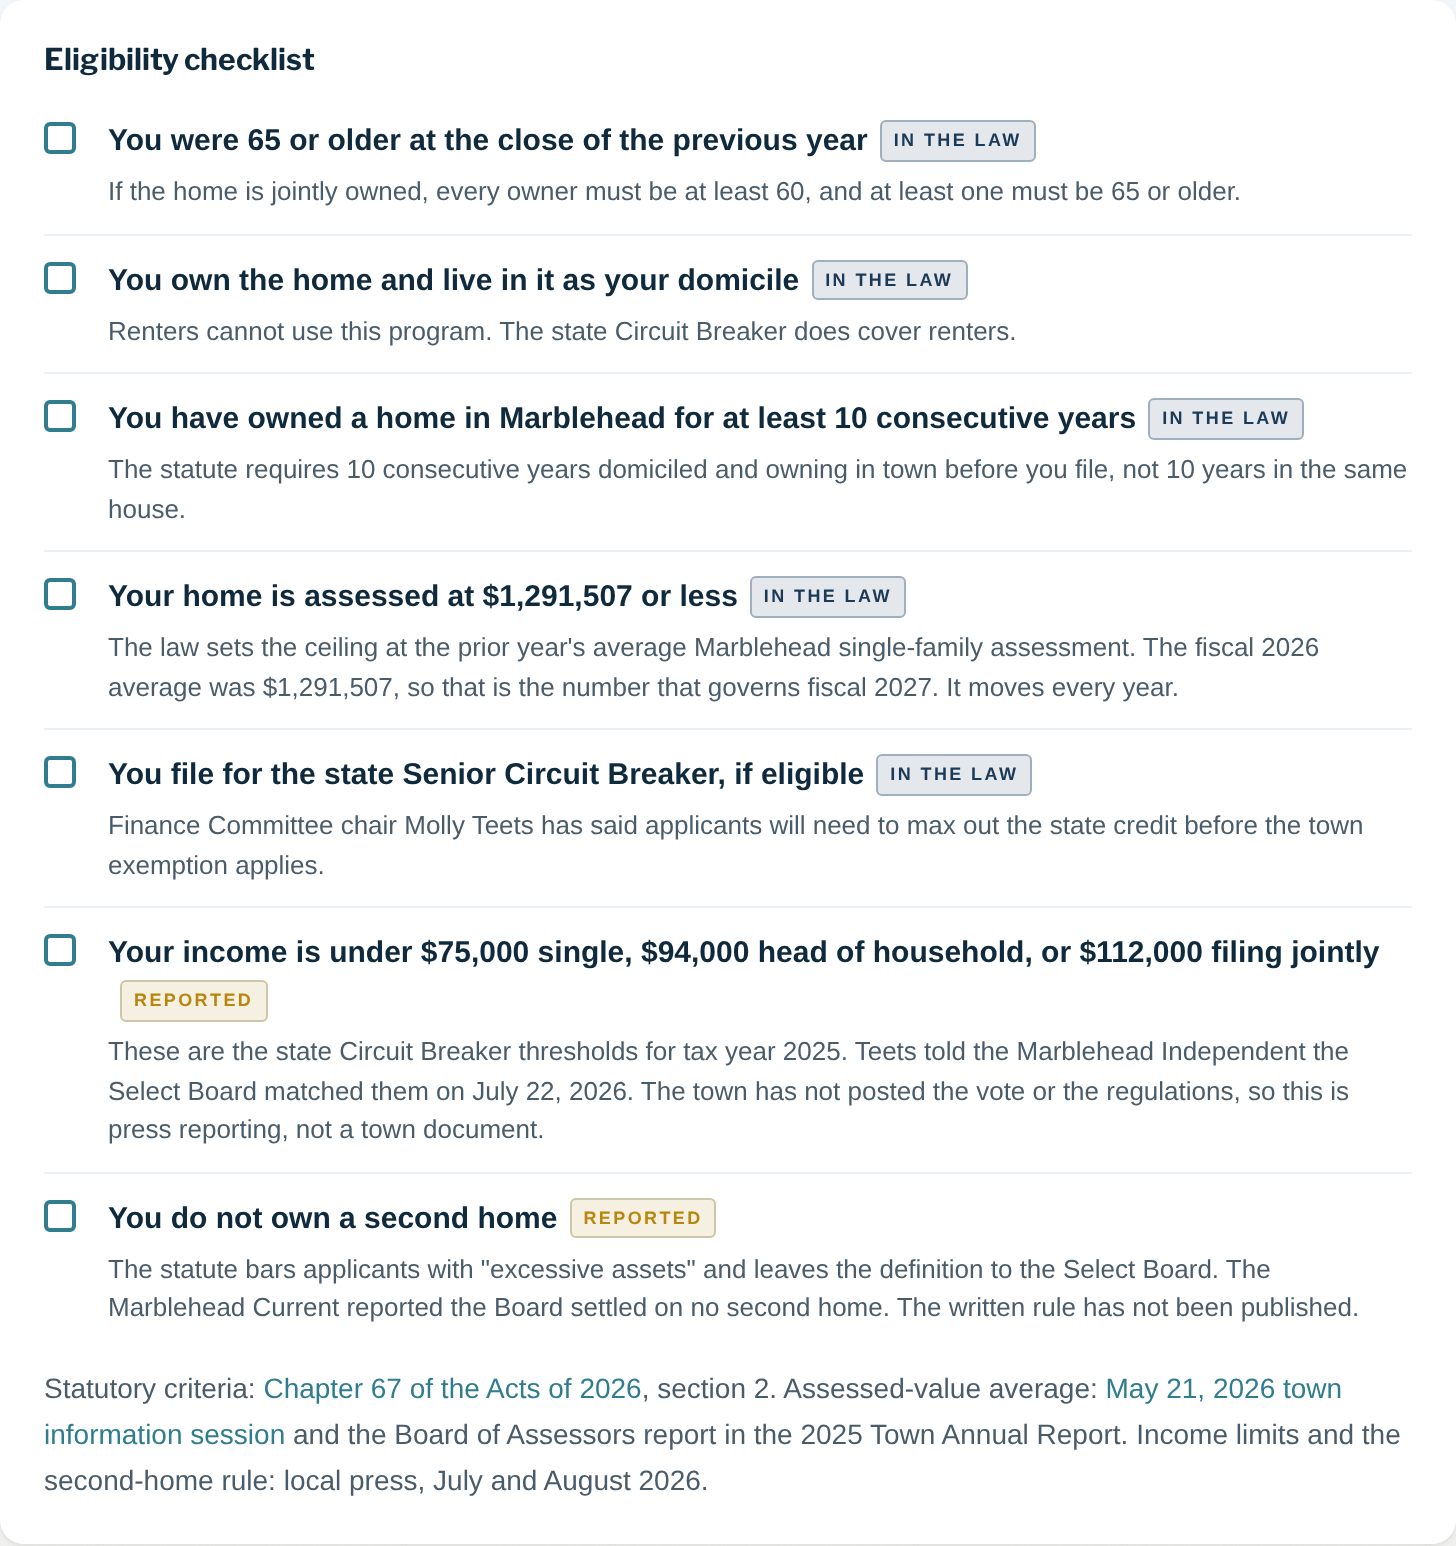
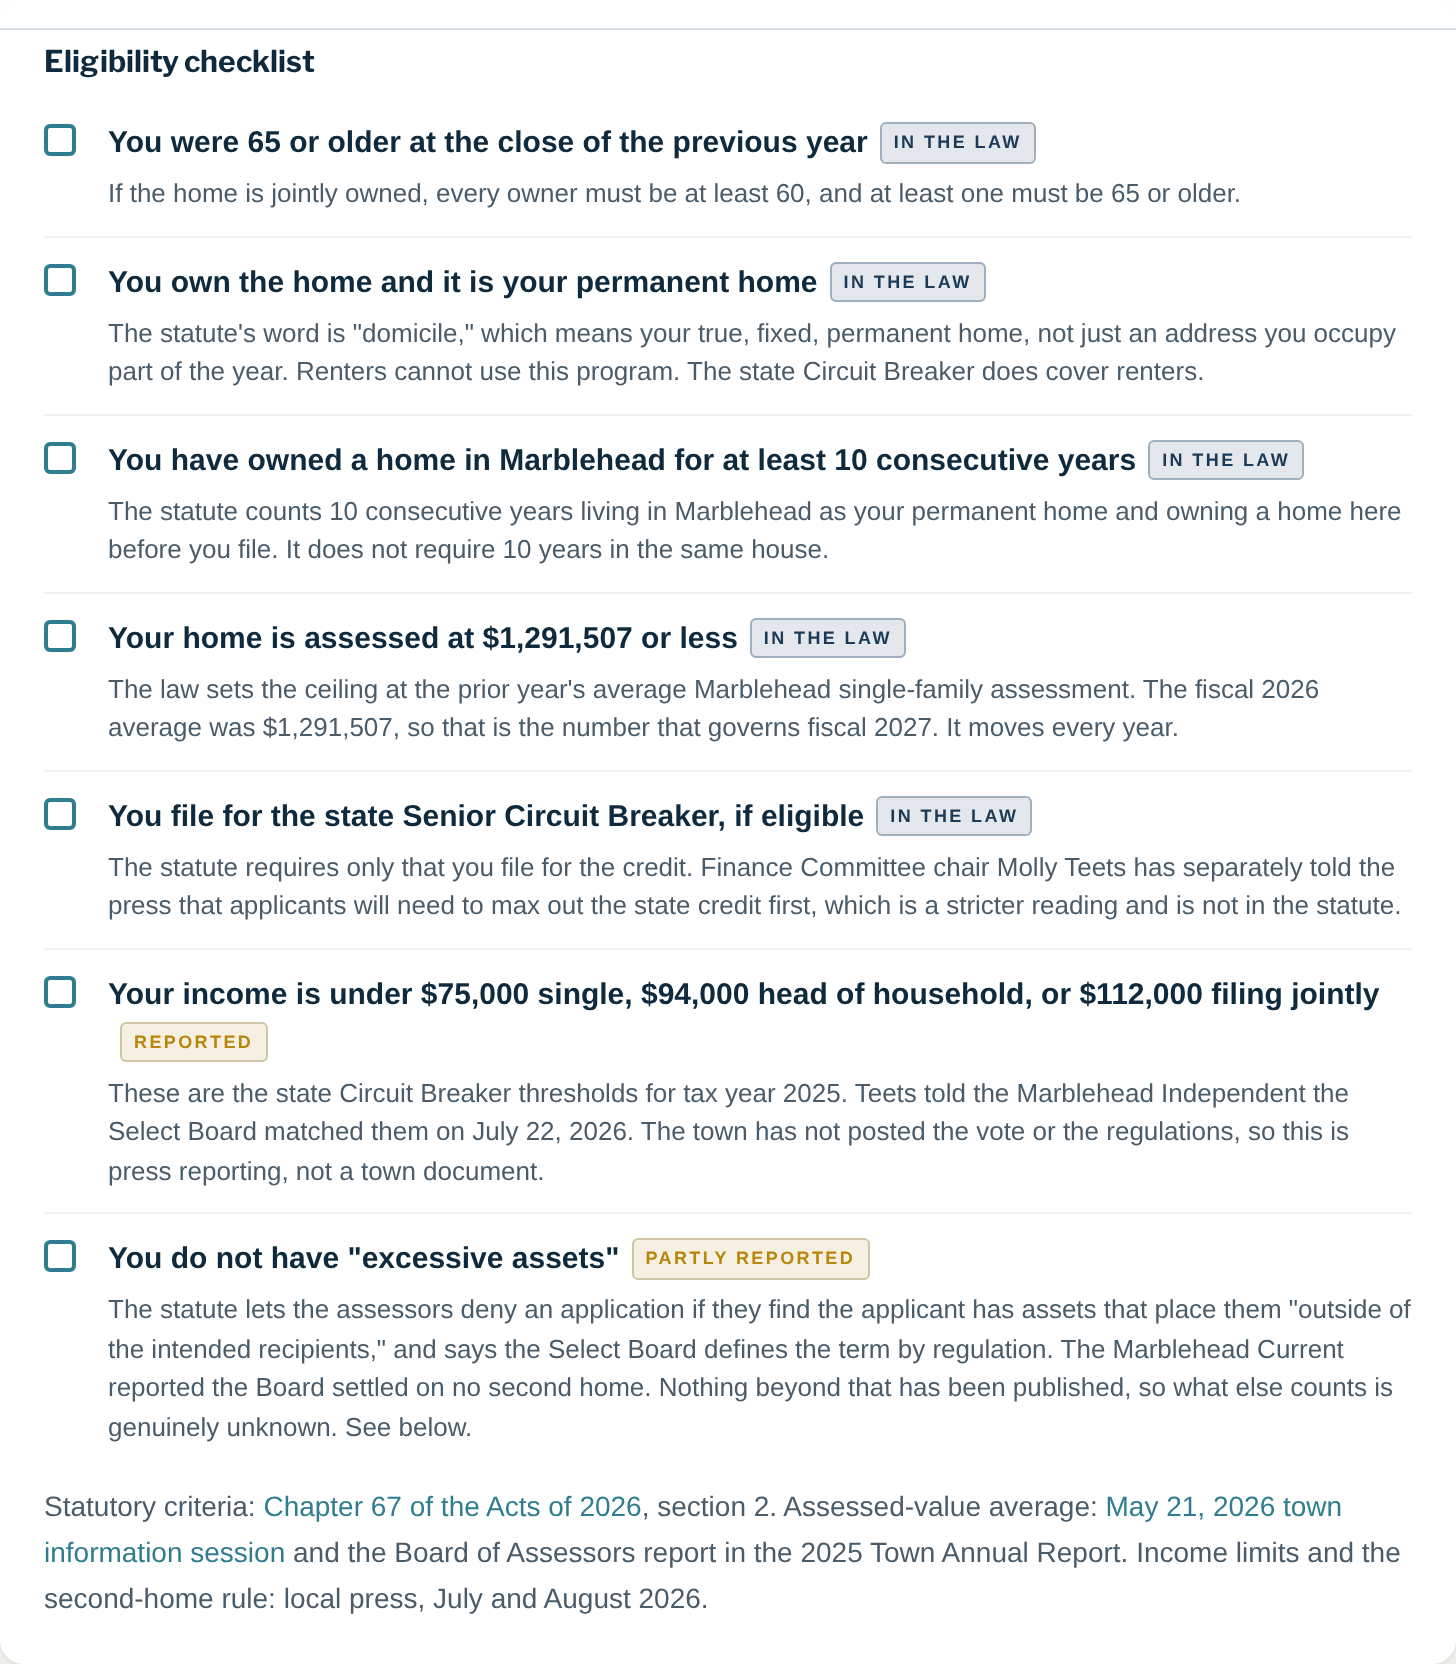
Correct the excessive-assets claim; clarify the ~100 estimate and "domicile"
Three fixes from review questions.

1. The excessive-assets framing was wrong. The page said the statute
   "bars applicants with excessive assets." It does not. Chapter 67
   section 2 gives the Board of Assessors discretionary power to DENY an
   application if it finds assets placing the applicant "outside of the
   intended recipients," and assigns the definition to Select Board
   regulation. Those regulations are unpublished, and the town's own May
   2026 "next steps" slide lists writing them as an outstanding task.
   Now a full Q&A entry saying plainly that beyond the reported
   second-home rule, what counts is unknown, and that this is the
   condition most likely to decide a marginal application. Badge changed
   from "Reported" to "Partly reported" since the statutory hook is real
   even though the content is not.

2. The ~100 figure is a genuine peer-town estimate, not arithmetic on
   the pool, but the derivation ran the other way from how the page
   implied. $200,000 was set at the 2025 Town Meeting; the Finance
   Committee estimated ~100 eligible applicants from comparable
   communities; $200,000 / 100 is where $2,000 comes from. Says so
   explicitly now, and quotes Laramie's "we have no idea how many people
   are going to apply" rather than letting the match read as design.

3. "Domicile" is the statute's word (4 uses) and is not a synonym for
   residence, so it is glossed rather than dropped: checklist item reads
[…]

Changed region(s): [[0.0309, 0.3726, 0.9581, 0.9625], [0.0309, 0.031, 0.9581, 0.3415], [0.0, 0.9935, 0.989, 1.0]]

diff --git a/senior-exemption.html b/senior-exemption.html
@@ -159,7 +159,7 @@ og_url: https://marbleheaddata.org/senior-exemption.html
   <div class="keyfact">
     <span class="keyfact-label">Expected to qualify</span>
     <span class="keyfact-value">~100</span>
-    <span class="keyfact-note">Town estimate from peer towns</span>
+    <span class="keyfact-note">Estimate from peer towns, untested</span>
   </div>
 </div>
 <p class="source">Maximum award, pool size, and the ~100 estimate: <a href="https://marbleheadma.gov/wp-content/uploads/2026/06/21May26-Tax-Information-Session-FINAL.pdf">Town of Marblehead, Tax Information Session, May 21, 2026</a>, and Select Board member Dan Fox's presentation of Article 28 at the May 7, 2025 Town Meeting.</p>
@@ -180,7 +180,7 @@ og_url: https://marbleheaddata.org/senior-exemption.html
 
 <h2 id="qualify">Do I qualify?</h2>
 
-<p>All seven conditions have to be true. Six of them come from the statute itself, Chapter 67 of the Acts of 2026, which the Governor signed on April 29, 2026.<sup class="cite" data-href="https://malegislature.gov/Laws/SessionLaws/Acts/2026/Chapter67" data-source="MA Acts of 2026, Chapter 67, &quot;An Act authorizing the town of Marblehead to establish a means-tested senior citizen property tax exemption,&quot; approved April 29, 2026, section 2"></sup> The income limits and the assets test were left to the Select Board to set.</p>
+<p>All seven conditions have to be true. Every one of them traces to the statute, Chapter 67 of the Acts of 2026, which the Governor signed on April 29, 2026.<sup class="cite" data-href="https://malegislature.gov/Laws/SessionLaws/Acts/2026/Chapter67" data-source="MA Acts of 2026, Chapter 67, &quot;An Act authorizing the town of Marblehead to establish a means-tested senior citizen property tax exemption,&quot; approved April 29, 2026, section 2"></sup> The difference is that five of them are fixed by the legislature, while the last two, the income ceiling and the assets test, are written as blanks for the Select Board to fill in. Those blanks are where the uncertainty lives, because the Board's regulations have not been published.</p>
 
 <div class="card">
   <h3>Eligibility checklist</h3>
@@ -191,11 +191,11 @@ og_url: https://marbleheaddata.org/senior-exemption.html
     </div>
     <div class="check-item">
       <span class="check-box"></span>
-      <span class="check-name">You own the home and live in it as your domicile<span class="tag-status tag-status--law">In the law</span><span class="check-note">Renters cannot use this program. The state Circuit Breaker does cover renters.</span></span>
+      <span class="check-name">You own the home and it is your permanent home<span class="tag-status tag-status--law">In the law</span><span class="check-note">The statute's word is "domicile," which means your true, fixed, permanent home, not just an address you occupy part of the year. Renters cannot use this program. The state Circuit Breaker does cover renters.</span></span>
     </div>
     <div class="check-item">
       <span class="check-box"></span>
-      <span class="check-name">You have owned a home in Marblehead for at least 10 consecutive years<span class="tag-status tag-status--law">In the law</span><span class="check-note">The statute requires 10 consecutive years domiciled and owning in town before you file, not 10 years in the same house.</span></span>
+      <span class="check-name">You have owned a home in Marblehead for at least 10 consecutive years<span class="tag-status tag-status--law">In the law</span><span class="check-note">The statute counts 10 consecutive years living in Marblehead as your permanent home and owning a home here before you file. It does not require 10 years in the same house.</span></span>
     </div>
     <div class="check-item">
       <span class="check-box"></span>
@@ -211,7 +211,7 @@ og_url: https://marbleheaddata.org/senior-exemption.html
     </div>
     <div class="check-item">
       <span class="check-box"></span>
-      <span class="check-name">You do not own a second home<span class="tag-status tag-status--reported">Reported</span><span class="check-note">The statute bars applicants with "excessive assets" and leaves the definition to the Select Board. The Marblehead Current reported the Board settled on no second home. The written rule has not been published.</span></span>
+      <span class="check-name">You do not have "excessive assets"<span class="tag-status tag-status--reported">Partly reported</span><span class="check-note">The statute lets the assessors deny an application if they find the applicant has assets that place them "outside of the intended recipients," and says the Select Board defines the term by regulation. The Marblehead Current reported the Board settled on no second home. Nothing beyond that has been published, so what else counts is genuinely unknown. See below.</span></span>
     </div>
   </div>
   <p class="source">Statutory criteria: <a href="https://malegislature.gov/Laws/SessionLaws/Acts/2026/Chapter67">Chapter 67 of the Acts of 2026</a>, section 2. Assessed-value average: <a href="https://marbleheadma.gov/wp-content/uploads/2026/06/21May26-Tax-Information-Session-FINAL.pdf">May 21, 2026 town information session</a> and the Board of Assessors report in the 2025 Town Annual Report. Income limits and the second-home rule: local press, July and August 2026.</p>
@@ -245,7 +245,9 @@ og_url: https://marbleheaddata.org/senior-exemption.html
 <div class="card">
   <h3>The pool can shrink your award</h3>
   <p>The town has set aside $200,000. If the approved applications add up to more than that, the law does not pay early filers in full and cut off the rest. It reduces <strong>every</strong> award proportionally.<sup class="cite" data-href="https://malegislature.gov/Laws/SessionLaws/Acts/2026/Chapter67" data-source="Chapter 67 of the Acts of 2026, section 3: &quot;If benefits to the applicants are limited because the cap established annually by the select board would otherwise be exceeded, the benefits shall be decreased pro rata.&quot;"></sup></p>
-  <p>There is no advantage to filing on the first day of the window rather than the last. At $2,000 each, the pool covers 100 households at full value. The town's own estimate is that about 100 applicants will qualify, so the first year is close to break-even by design. If 150 qualify, each gets about $1,333 instead.</p>
+  <p>There is no advantage to filing on the first day of the window rather than the last.</p>
+  <p><strong>The $2,000 figure came out of the estimate, not the other way around.</strong> The $200,000 pool was set first, at the 2025 Town Meeting. The Finance Committee then benchmarked comparable Massachusetts communities and estimated that roughly 100 Marblehead seniors who apply would be eligible.<sup class="cite" data-href="https://marbleheadma.gov/wp-content/uploads/2026/06/21May26-Tax-Information-Session-FINAL.pdf" data-source="Town of Marblehead, Tax Information Session, May 21, 2026: &quot;Based on our research of comparable towns, we estimate that around 100 Marblehead senior homeowners who apply will be eligible.&quot;"></sup> Dividing the pool by that estimate is where $2,000 per household comes from.<sup class="cite" data-href="https://marbleheadcurrent.org/2026/07/24/select-board-hires-search-firm-sets-rules-for-senior-property-tax-exemption/" data-source="Marblehead Current, July 24, 2026: &quot;Because the town has $200,000 set aside to fund it, Teets recommended and the board approved $2,000 as maximum exemption for each participant.&quot;"></sup></p>
+  <p>So the ~100 is a real estimate drawn from other towns' experience, not arithmetic on the pool. It is still an estimate, and the town has been candid that it is untested. Assessor Todd Laramie put it plainly at the May information session: "We have no idea how many people are going to apply."<sup class="cite" data-href="https://www.marbleheadindependent.com/marbleheads-nascent-senior-tax-break-faces-its-first-real-test/" data-source="Marblehead Independent, August 3, 2026, quoting Town Assessor Todd Laramie at the May 21, 2026 information session"></sup> If 150 qualify, each award drops to about $1,333. If 60 qualify, the pool is underspent and everyone gets the full $2,000.</p>
 </div>
 
 <div class="card">
@@ -308,6 +310,13 @@ og_url: https://marbleheaddata.org/senior-exemption.html
   </div>
 
   <div>
+    <h3>What counts as "excessive assets"?</h3>
+    <p>Beyond owning a second home, nobody outside town hall knows. This is the loosest condition in the program and the one most likely to decide a marginal application.</p>
+    <p>The statute does two things here. It lets the Board of Assessors <strong>deny</strong> an application if it finds the applicant has assets that place them "outside of the intended recipients" of the exemption, and it says that what counts "shall be determined by regulations set by the select board."<sup class="cite" data-href="https://malegislature.gov/Laws/SessionLaws/Acts/2026/Chapter67" data-source="Chapter 67 of the Acts of 2026, section 2: &quot;The board of assessors of the town of Marblehead may deny an application for exemption if the board finds that the applicant has excessive assets that place the applicant outside of the intended recipients of the senior exemption established pursuant to this act. For the purposes of this act, what constitutes excessive assets shall be determined by regulations set by the select board.&quot;"></sup> Note that this is a discretionary power to deny rather than a checkbox you either pass or fail.</p>
+    <p>Those regulations have not been published. At the May 2026 information session the town listed "provide guidance on what constitutes 'excessive assets'" as an outstanding task for the Select Board, alongside setting the income limits.<sup class="cite" data-href="https://marbleheadma.gov/wp-content/uploads/2026/06/21May26-Tax-Information-Session-FINAL.pdf" data-source="Town of Marblehead, Tax Information Session, May 21, 2026, &quot;Next steps&quot; slide: Select Board will (1) set income limits for participants, (2) provide guidance on what constitutes &quot;excessive assets&quot;"></sup> The only reported outcome from the July 22 vote is the second-home rule. Whether savings, investments, or other property factor in is unanswered. If you are close to the line, this is the question to put to the Assessor's Office directly.</p>
+  </div>
+
+  <div>
     <h3>What if I am turned down?</h3>
     <p>Teets has said there is no appeal process.<sup class="cite" data-href="https://www.marbleheadindependent.com/marbleheads-nascent-senior-tax-break-faces-its-first-real-test/" data-source="Marblehead Independent, August 3, 2026: &quot;There is no appeal process, Teets said, and the applications are not public documents.&quot;"></sup> Chapter 67 does not create one, and it makes approval by the Board of Assessors a condition of qualifying. That is a real difference from the statutory exemptions such as Clause 41C, where a denial can be appealed to the Appellate Tax Board.</p>
   </div>
@@ -324,7 +333,7 @@ og_url: https://marbleheaddata.org/senior-exemption.html
 
   <div>
     <h3>Can renters get this?</h3>
-    <p>No. Chapter 67 applies to property owned and occupied by the applicant as their domicile. Renters 65 and over can still claim the state Circuit Breaker, which does cover renters whose rent exceeds a set share of income.</p>
+    <p>No. The exemption applies only to a home the applicant owns and occupies as their permanent home. Renters 65 and over can still claim the state Circuit Breaker, which does cover renters whose rent exceeds a set share of income.</p>
   </div>
 
   <div>
@@ -362,6 +371,9 @@ og_url: https://marbleheaddata.org/senior-exemption.html
   </div>
   <div class="cut-item">
     <span class="cut-item-name">Exact application dates<span class="cut-item-note">Town materials say "Nov '26." The Nov. 1 and Nov. 30 dates come from press reporting.</span></span>
+  </div>
+  <div class="cut-item">
+    <span class="cut-item-name">A definition of "excessive assets"<span class="cut-item-note">The statute assigns this to Select Board regulation, and the town's own May 2026 "next steps" slide lists it as an outstanding task. Only the second-home rule has been reported.</span></span>
   </div>
 </div>
 
